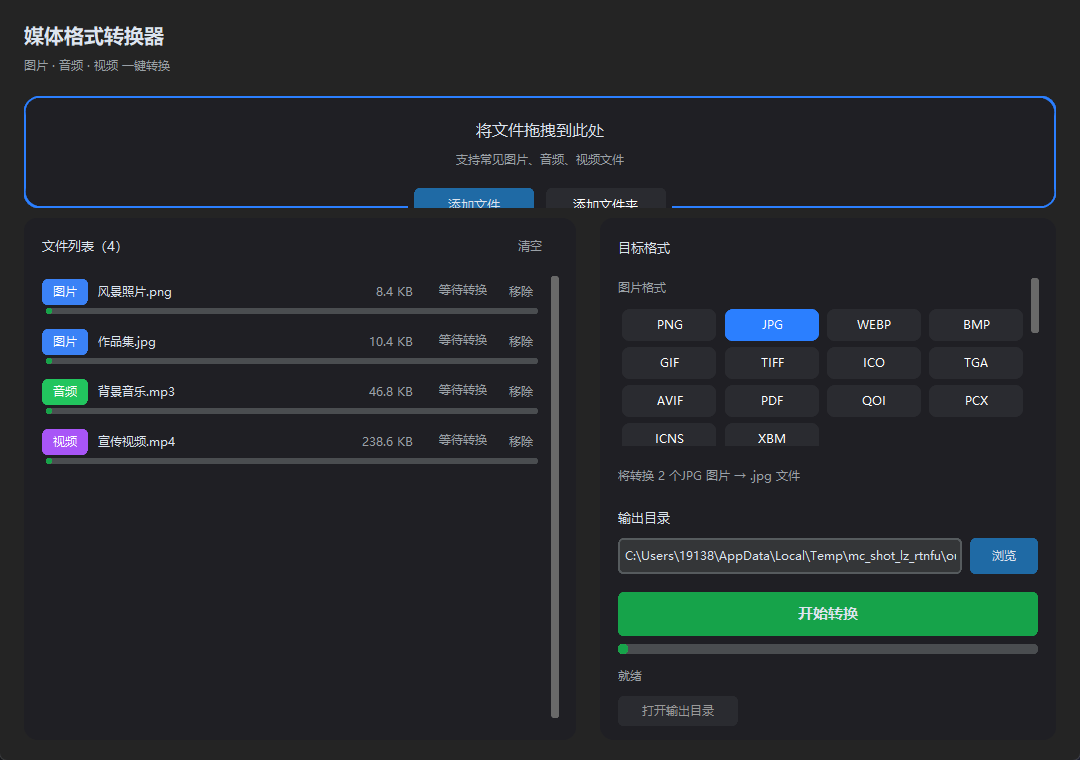
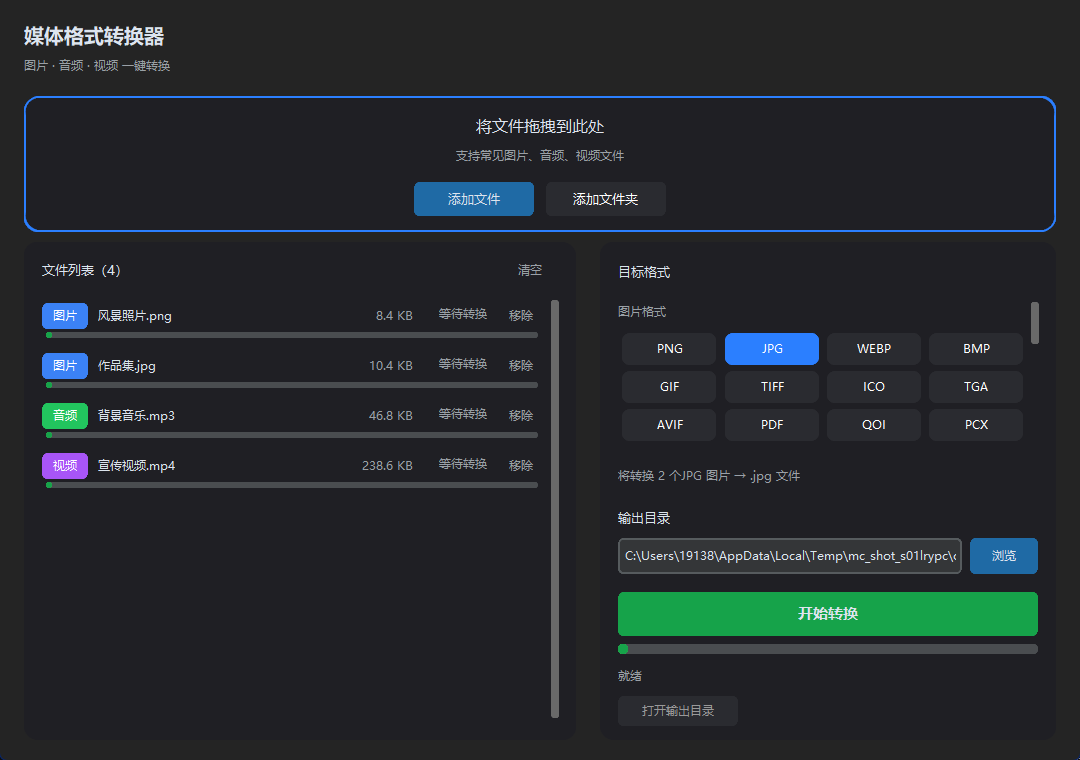
fix(ui): fix drop-zone buttons being clipped by fixed frame height

diff --git a/app.py b/app.py
@@ -38,7 +38,7 @@ class MediaConverterApp(ctk.CTk, TkinterDnD.DnDWrapper):
 
         self.title("媒体格式转换器")
         self.geometry("1000x720")
-        self.minsize(900, 660)
+        self.minsize(900, 680)
 
         self._font = ctk.CTkFont(family=FONT, size=13)
         self._font_small = ctk.CTkFont(family=FONT, size=12)
@@ -87,18 +87,17 @@ class MediaConverterApp(ctk.CTk, TkinterDnD.DnDWrapper):
 
         # 拖拽区
         drop = ctk.CTkFrame(self, fg_color=BG_PANEL, border_width=2,
-                            border_color=ACCENT, corner_radius=16, height=112)
+                            border_color=ACCENT, corner_radius=16)
         drop.grid(row=1, column=0, sticky="ew", padx=24, pady=(12, 10))
-        drop.grid_propagate(False)
         drop.grid_columnconfigure(0, weight=1)
         ctk.CTkLabel(drop, text="将文件拖拽到此处", font=ctk.CTkFont(
             family=FONT, size=16), anchor="center").grid(
-            row=0, column=0, pady=(20, 2))
+            row=0, column=0, pady=(16, 2))
         ctk.CTkLabel(drop, text="支持常见图片、音频、视频文件",
                      font=self._font_small, text_color=GRAY).grid(
-            row=1, column=0, pady=(0, 14))
+            row=1, column=0, pady=(0, 12))
         btns = ctk.CTkFrame(drop, fg_color="transparent")
-        btns.grid(row=2, column=0, pady=(0, 18))
+        btns.grid(row=2, column=0, pady=(0, 16))
         ctk.CTkButton(btns, text="添加文件", width=120, height=34,
                       font=self._font, command=self._pick_files).pack(
             side="left", padx=6)
@@ -157,7 +156,7 @@ class MediaConverterApp(ctk.CTk, TkinterDnD.DnDWrapper):
                      anchor="w").grid(row=0, column=0, sticky="w", padx=18, pady=(16, 6))
 
         self._chip_frame = ctk.CTkScrollableFrame(
-            card, fg_color="transparent", height=120)
+            card, fg_color="transparent", height=110)
         self._chip_frame.grid(row=1, column=0, sticky="nsew", padx=12, pady=(0, 8))
         self._chip_frame.grid_columnconfigure((0, 1, 2, 3), weight=1)
 
